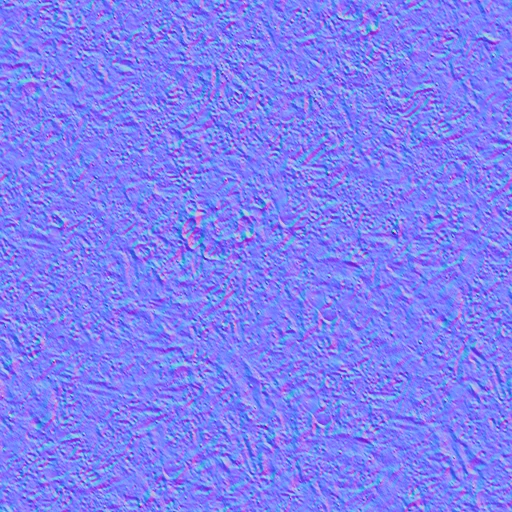
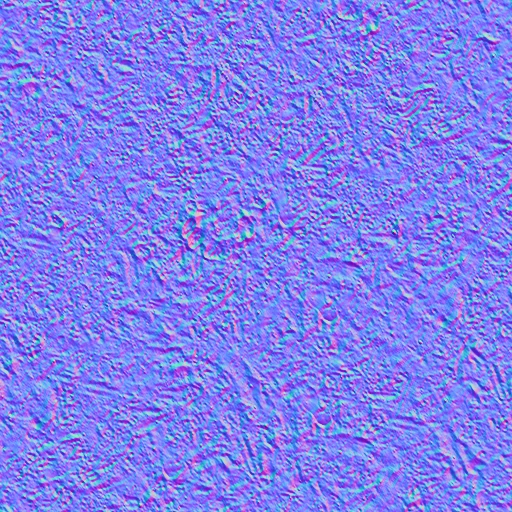
feat: 地面にざらつきと立体感（視差マッピング・法線の重ね合わせ・道の近くの起伏）
- 小石まじりの土の高さマップで視差マッピングし、くぼみを暗く
- 法線は小石の土（3.2m）と砂の粒（1.1m）の2枚を重ね、凹凸を強めに
- 粗さを最大・空の映り込みを弱めて、低い夕陽で地面がテカるのを止める
- 道の近く（5〜30m）に細かい網目の帯を重ね、盛り上がりとでこぼこを形として作る
- 小石の土の色と凹凸の座標の向きがずれていたのを直す
- ノイズ画像を WebP に（配信は 2.9MB）

diff --git a/components/hero66/terrain.ts b/components/hero66/terrain.ts
@@ -42,40 +42,85 @@ const TILE = 5
 
 /**
  * 地面の材質：赤い砂（大きさの違う2種類を重ねて繰り返しを消す）＋小石まじりの乾いた土（数十 m の斑で混ぜる）
- * ＋広い範囲の明るさ・色のむら。座標は世界座標の xz（m）で取るので、地面の大きさに依存しない。
+ * ＋広い範囲の明るさ・色のむら。
+ *
+ * ざらつきと立体感：
+ *   - 小石の土の高さマップで視差マッピング（覗き込む角度で凹凸がずれて見える）し、くぼみを暗くする
+ *   - 法線は「小石の土（3.2m）」と「砂の細かい粒（1.1m）」の2枚を重ねる
+ *   - 粗さは常に最大、空の映り込みは弱く（低い夕陽で地面がテカるとおもちゃっぽく見える）
+ * テクスチャの座標は、地面の uv と同じ向き（x → u、z → -v）で世界座標から作る（色と凹凸の位置をそろえる）。
  */
-function layeredGround(mat: THREE.MeshStandardMaterial, rocks: SurfaceMaps, noise: THREE.Texture) {
+function layeredGround(
+  mat: THREE.MeshStandardMaterial,
+  sand: SurfaceMaps,
+  rocks: SurfaceMaps,
+  noise: THREE.Texture,
+  uvOrigin: THREE.Vector2,
+) {
   noise.wrapS = noise.wrapT = THREE.RepeatWrapping
   const uniforms = {
     uRockMap: { value: rocks.map },
+    uRockH: { value: rocks.heightMap ?? rocks.map },
+    uSandNor: { value: sand.normalMap },
     uNoise: { value: noise },
+    uOrigin: { value: uvOrigin },
+    uDepth: { value: 0.055 }, // 視差の深さ（m）
   }
   mat.onBeforeCompile = (shader) => {
     Object.assign(shader.uniforms, uniforms)
     shader.vertexShader = shader.vertexShader
-      .replace("#include <common>", "#include <common>\nvarying vec2 vWorldXZ;")
-      .replace("#include <worldpos_vertex>", "#include <worldpos_vertex>\nvWorldXZ = (modelMatrix * vec4(transformed, 1.0)).xz;")
+      .replace("#include <common>", "#include <common>\nvarying vec3 vWorldPos3;")
+      .replace("#include <worldpos_vertex>", "#include <worldpos_vertex>\nvWorldPos3 = (modelMatrix * vec4(transformed, 1.0)).xyz;")
     shader.fragmentShader = shader.fragmentShader
       .replace(
         "#include <common>",
-        "#include <common>\nvarying vec2 vWorldXZ;\nuniform sampler2D uRockMap;\nuniform sampler2D uNoise;\nfloat gRock;",
+        /* glsl */ `#include <common>
+varying vec3 vWorldPos3;
+uniform sampler2D uRockMap;
+uniform sampler2D uRockH;
+uniform sampler2D uSandNor;
+uniform sampler2D uNoise;
+uniform vec2 uOrigin;
+uniform float uDepth;
+float gRock;
+vec2 gWr;
+// 世界座標 → 地面の uv と同じ向きのテクスチャ座標（tile m ごとに1枚）
+vec2 groundUv(vec2 w, float tile) { return vec2(w.x - uOrigin.x, uOrigin.y - w.y) / tile; }`,
       )
       .replace(
         "#include <color_fragment>",
         /* glsl */ `#include <color_fragment>
 {
-  vec2 wp = vWorldXZ;
+  vec2 wp = vWorldPos3.xz;
   vec3 nA = texture2D(uNoise, wp / 160.0).rgb; // 大きな斑
   vec3 nB = texture2D(uNoise, wp / 37.0 + 0.31).rgb; // 中くらい
   vec3 nC = texture2D(uNoise, wp / 9.0 + 0.57).rgb;  // 小さい
   gRock = smoothstep(0.46, 0.58, nA.r * 0.6 + nB.g * 0.4);
+
+  // 視差マッピング：視線に沿って高さマップの中へ潜り、見えている点をずらす（近くだけ）
+  vec3 V = normalize(cameraPosition - vWorldPos3);
+  float dist = length(cameraPosition - vWorldPos3);
+  float depth = uDepth * (1.0 - smoothstep(25.0, 60.0, dist));
+  vec2 stepW = V.xz / max(V.y, 0.25) * (depth / 8.0);
+  gWr = wp;
+  float layer = 0.0;
+  float h = texture2D(uRockH, groundUv(gWr, 3.2)).r;
+  for (int i = 0; i < 8; i++) {
+    if (1.0 - h <= layer) break;
+    gWr -= stepW;
+    layer += 0.125;
+    h = texture2D(uRockH, groundUv(gWr, 3.2)).r;
+  }
+
   vec3 sandA = texture2D(map, vMapUv).rgb;
   vec3 sandB = texture2D(map, wp / 19.0).rgb; // 別の大きさで重ねて繰り返しを崩す
   vec3 sand = mix(sandA, sandB, 0.45);
-  vec3 rock = texture2D(uRockMap, wp / 3.2).rgb * vec3(0.95, 0.86, 0.74); // 黄みがかった明るい灰土
-  // 砂地にも小石を薄く混ぜる（まったくの無地に見えないように）
-  sand = mix(sand, rock * vec3(1.0, 0.82, 0.7), 0.22);
+  vec3 rock = texture2D(uRockMap, groundUv(gWr, 3.2)).rgb * vec3(0.95, 0.86, 0.74); // 黄みがかった明るい灰土
+  // 砂地にも小石を混ぜる（まったくの無地に見えないように）
+  sand = mix(sand, rock * vec3(1.0, 0.82, 0.7), 0.3);
   vec3 col = mix(sand, rock, gRock);
+  // くぼみを暗く（粒の間の影）。小石の所ほど強く
+  col *= mix(1.0, mix(0.55, 1.08, h), 0.45 + 0.55 * gRock);
   col *= mix(0.62, 1.22, smoothstep(0.3, 0.7, nB.b)); // 明るさのむら（中くらいの斑）
   col *= mix(0.82, 1.08, nC.r);                        // 細かいむら
   col = mix(col, col * vec3(1.12, 0.88, 0.74), smoothstep(0.35, 0.65, nA.g) * 0.7); // 赤みの斑
@@ -83,16 +128,23 @@ function layeredGround(mat: THREE.MeshStandardMaterial, rocks: SurfaceMaps, nois
   diffuseColor.rgb = col * diffuse * vColor.rgb;
 }`,
       )
-      // 小石の所だけ凹凸を強く（砂地は穏やかに）
+      // 法線：小石の土（視差でずらした位置）＋砂の細かい粒を重ねる
       .replace(
-        "#include <normal_fragment_maps>",
-        "#include <normal_fragment_maps>\nnormal = normalize(mix(nonPerturbedNormal, normal, 0.35 + 0.65 * gRock));",
+        "vec3 mapN = texture2D( normalMap, vNormalMapUv ).xyz * 2.0 - 1.0;",
+        /* glsl */ `vec3 n1 = texture2D( normalMap, groundUv(gWr, 3.2) ).xyz * 2.0 - 1.0;
+  vec3 n2 = texture2D( uSandNor, groundUv(vWorldPos3.xz, 1.1) ).xyz * 2.0 - 1.0;
+  vec3 mapN = vec3( n1.xy * (0.8 + 0.9 * gRock) + n2.xy * 1.1, n1.z );`,
       )
+      // 粗さは常に最大（地面は光らない）
+      .replace("#include <roughnessmap_fragment>", "#include <roughnessmap_fragment>\nroughnessFactor = 1.0;")
   }
-  mat.customProgramCacheKey = () => "hero66-ground-v2"
+  mat.customProgramCacheKey = () => "hero66-ground-v3"
 }
 
-export function createTerrain(road: Road, sand: SurfaceMaps, rocks: SurfaceMaps, noiseTex: THREE.Texture) {
+/** 道の近く（カメラが寄る範囲）に重ねる、細かい網目の起伏の帯の設定 */
+const BAND = { inner: 5.2, outer: 30, step: 0.8, stepMobile: 1.6 }
+
+export function createTerrain(road: Road, sand: SurfaceMaps, rocks: SurfaceMaps, noiseTex: THREE.Texture, isMobile = false) {
   const group = new THREE.Group()
   group.name = "terrain"
   const noise = valueNoise(7)
@@ -144,27 +196,84 @@ export function createTerrain(road: Road, sand: SurfaceMaps, rocks: SurfaceMaps,
   // 色は砂（5m の模様）、凹凸は小石まじりの土（3.2m の模様）。解放は assets 側
   sand.map.repeat.set(size.x / TILE, size.z / TILE)
   rocks.normalMap.repeat.set(size.x / 3.2, size.z / 3.2)
-  sand.armMap.repeat.set(size.x / TILE, size.z / TILE)
+  for (const t of [sand.normalMap, rocks.map, rocks.heightMap]) if (t) t.wrapS = t.wrapT = THREE.RepeatWrapping
   const groundMat = new THREE.MeshStandardMaterial({
     map: sand.map,
     normalMap: rocks.normalMap,
-    roughnessMap: sand.armMap,
     vertexColors: true,
     roughness: 1,
     metalness: 0,
-    normalScale: new THREE.Vector2(1.1, 1.1),
+    normalScale: new THREE.Vector2(1.35, 1.35),
+    envMapIntensity: 0.35, // 地面はほとんど映り込まない
   })
-  layeredGround(groundMat, rocks, noiseTex)
+  // 地面の uv の原点（x0 → u = 0、z = z0 + size.z → v = 0）
+  layeredGround(groundMat, sand, rocks, noiseTex, new THREE.Vector2(x0, z0 + size.z))
   const ground = new THREE.Mesh(geo, groundMat)
   ground.receiveShadow = true
   ground.name = "ground"
   group.add(ground)
 
+  // ── 道の近くの起伏の帯：網目を細かくして、小さな盛り上がりとくぼみを本当の形で作る ──
+  const bump = valueNoise(31)
+  /** 道の中心からの距離 c での起伏（m）。路肩の近くは平らに、帯の外側で元の地面へ戻す */
+  const bumpAt = (x: number, z: number, c: number) => {
+    const ramp = THREE.MathUtils.smoothstep(c, 6, 9) * (1 - THREE.MathUtils.smoothstep(c, BAND.outer - 7, BAND.outer))
+    const mounds = Math.max(0, bump(x / 2.4, z / 2.4) - 0.38) * 0.3 // なだらかな盛り上がり
+    const grit = bump(x / 0.75 + 17, z / 0.75) * 0.05 // 細かいでこぼこ
+    return ramp * (mounds + grit)
+  }
+  const step = isMobile ? BAND.stepMobile : BAND.step
+  const across = Math.ceil((BAND.outer - BAND.inner) / step)
+  const along = Math.ceil(road.length / step)
+  const bPos: number[] = []
+  const bUv: number[] = []
+  const bCol: number[] = []
+  const bIdx: number[] = []
+  const f = { pos: new THREE.Vector3(), forward: new THREE.Vector3(), right: new THREE.Vector3() }
+  for (const side of [-1, 1]) {
+    const base = bPos.length / 3
+    for (let k = 0; k <= along; k++) {
+      road.frameAt(Math.min(road.length, k * step), f)
+      for (let j = 0; j <= across; j++) {
+        const c = BAND.inner + ((BAND.outer - BAND.inner) * j) / across
+        const x = f.pos.x + f.right.x * c * side
+        const z = f.pos.z + f.right.z * c * side
+        // 元の地面より少し上（重なってちらつかないように）
+        bPos.push(x, heightAt(x, z) + 0.014 + bumpAt(x, z, c), z)
+        bUv.push((x - x0) / size.x, 1 - (z - z0) / size.z)
+        tint.lerpColors(warm, pale, noise(x * 0.02 + 11, z * 0.02))
+        bCol.push(tint.r, tint.g, tint.b)
+      }
+      if (k < along) {
+        for (let j = 0; j < across; j++) {
+          const a = base + k * (across + 1) + j
+          const b = a + across + 1
+          // 右側と左側で並びの向きが逆になるので、上向きになるよう入れ替える
+          if (side > 0) bIdx.push(a, a + 1, b, a + 1, b + 1, b)
+          else bIdx.push(a, b, a + 1, a + 1, b, b + 1)
+        }
+      }
+    }
+  }
+  const bandGeo = new THREE.BufferGeometry()
+  bandGeo.setAttribute("position", new THREE.Float32BufferAttribute(bPos, 3))
+  bandGeo.setAttribute("uv", new THREE.Float32BufferAttribute(bUv, 2))
+  bandGeo.setAttribute("color", new THREE.Float32BufferAttribute(bCol, 3))
+  bandGeo.setIndex(bIdx)
+  bandGeo.computeVertexNormals()
+  const band = new THREE.Mesh(bandGeo, groundMat)
+  band.receiveShadow = true
+  band.name = "groundDetail"
+  group.add(band)
+
   return {
     group,
     heightAt,
+    /** 起伏の帯を含めた地面の高さ（沿道の物を置く用）。c は道の中心からの距離 */
+    groundAt: (x: number, z: number, c: number) => heightAt(x, z) + (c > BAND.inner && c < BAND.outer ? 0.014 + bumpAt(x, z, c) : 0),
     dispose() {
       geo.dispose()
+      bandGeo.dispose()
       groundMat.dispose()
     },
   }

diff --git a/components/hero66/assets.ts b/components/hero66/assets.ts
@@ -19,7 +19,7 @@ type SkyMeta = {
   bandLow: number
   bandHigh: number
 }
-type SurfaceMeta = { diff: string; arm: string; nor: string }
+type SurfaceMeta = { diff: string; arm: string; nor: string; h?: string }
 type Meta = {
   sky: { sunset: SkyMeta; dusk: SkyMeta }
   ground: SurfaceMeta
@@ -33,7 +33,7 @@ type Meta = {
 }
 export type Prop = { geometry: THREE.BufferGeometry; material: THREE.Material }
 
-export type SurfaceMaps = { map: THREE.Texture; normalMap: THREE.Texture; armMap: THREE.Texture }
+export type SurfaceMaps = { map: THREE.Texture; normalMap: THREE.Texture; armMap: THREE.Texture; heightMap?: THREE.Texture }
 export type SkyAsset = SkyMeta & { bandTex: THREE.Texture; envTex: THREE.Texture }
 
 export type HeroAssets = {
@@ -116,8 +116,13 @@ export async function loadHeroAssets(
   }
 
   const loadSurface = async (s: SurfaceMeta): Promise<SurfaceMaps> => {
-    const [map, normalMap, armMap] = await Promise.all([loadTex(s.diff, true), loadTex(s.nor, false), loadTex(s.arm, false)])
-    return { map, normalMap, armMap }
+    const [map, normalMap, armMap, heightMap] = await Promise.all([
+      loadTex(s.diff, true),
+      loadTex(s.nor, false),
+      loadTex(s.arm, false),
+      s.h ? loadTex(s.h, false) : Promise.resolve(undefined),
+    ])
+    return heightMap ? { map, normalMap, armMap, heightMap } : { map, normalMap, armMap }
   }
 
   const [sunset, dusk, ground, road, groundRocks, shoulder, concrete, noise, rockGltf, grassGltf, grassAlpha, shrubGltf] =

diff --git a/components/hero66/scene.ts b/components/hero66/scene.ts
@@ -48,7 +48,7 @@ export function createHeroScene(renderer: THREE.WebGLRenderer, profile: DevicePr
 
   const road = createRoad()
   const roadMesh = createRoadMesh(road, assets.road, assets.shoulder, assets.noise)
-  const terrain = createTerrain(road, assets.ground, assets.groundRocks, assets.noise)
+  const terrain = createTerrain(road, assets.ground, assets.groundRocks, assets.noise, profile.isMobile)
   const signs = createSigns(road)
   const garage = createGarage(road, assets.garage)
 
@@ -56,7 +56,7 @@ export function createHeroScene(renderer: THREE.WebGLRenderer, profile: DevicePr
   const keep: Array<{ x: number; z: number; r: number }> = []
   signs.group.children.forEach((o) => keep.push({ x: o.position.x, z: o.position.z, r: 7 }))
   keep.push({ x: garage.group.position.x, z: garage.group.position.z, r: 13 })
-  const roadside = createRoadside(road, keep, { rock: assets.rock, grass: assets.grass, shrub: assets.shrub }, profile.isMobile, terrain.heightAt)
+  const roadside = createRoadside(road, keep, { rock: assets.rock, grass: assets.grass, shrub: assets.shrub }, profile.isMobile, terrain.groundAt)
 
   const sky = createSky(assets.sky)
   const impala = createImpala()

diff --git a/components/hero66/roadside.ts b/components/hero66/roadside.ts
@@ -28,8 +28,8 @@ export function createRoadside(
   keepouts: Keepout[],
   props: { rock: Prop; grass: Prop[]; shrub: Prop },
   isMobile: boolean,
-  /** 地面の高さ（起伏の上に置くため） */
-  heightAt: (x: number, z: number) => number,
+  /** 地面の高さ（起伏の上に置くため）。c は道の中心からの距離 */
+  groundAt: (x: number, z: number, c: number) => number,
 ) {
   const group = new THREE.Group()
   group.name = "roadside"
@@ -114,7 +114,7 @@ export function createRoadside(
         const k = o.scale[0] + r() * (o.scale[1] - o.scale[0])
         const sq = o.squash ? o.squash[0] + r() * (o.squash[1] - o.squash[0]) : 1
         q.setFromAxisAngle(up, r() * Math.PI * 2)
-        p.y = heightAt(p.x, p.z) - 0.03 * k // 少し埋める（浮いて見えないように）
+        p.y = groundAt(p.x, p.z, d) - 0.03 * k // 少し埋める（浮いて見えないように）
         m.compose(p, q, s.set(k, k * sq, k))
         inst.setMatrixAt(n, m)
         if (o.tint) inst.setColorAt(n, tmpColor.lerpColors(o.tint[0], o.tint[1], r()))
